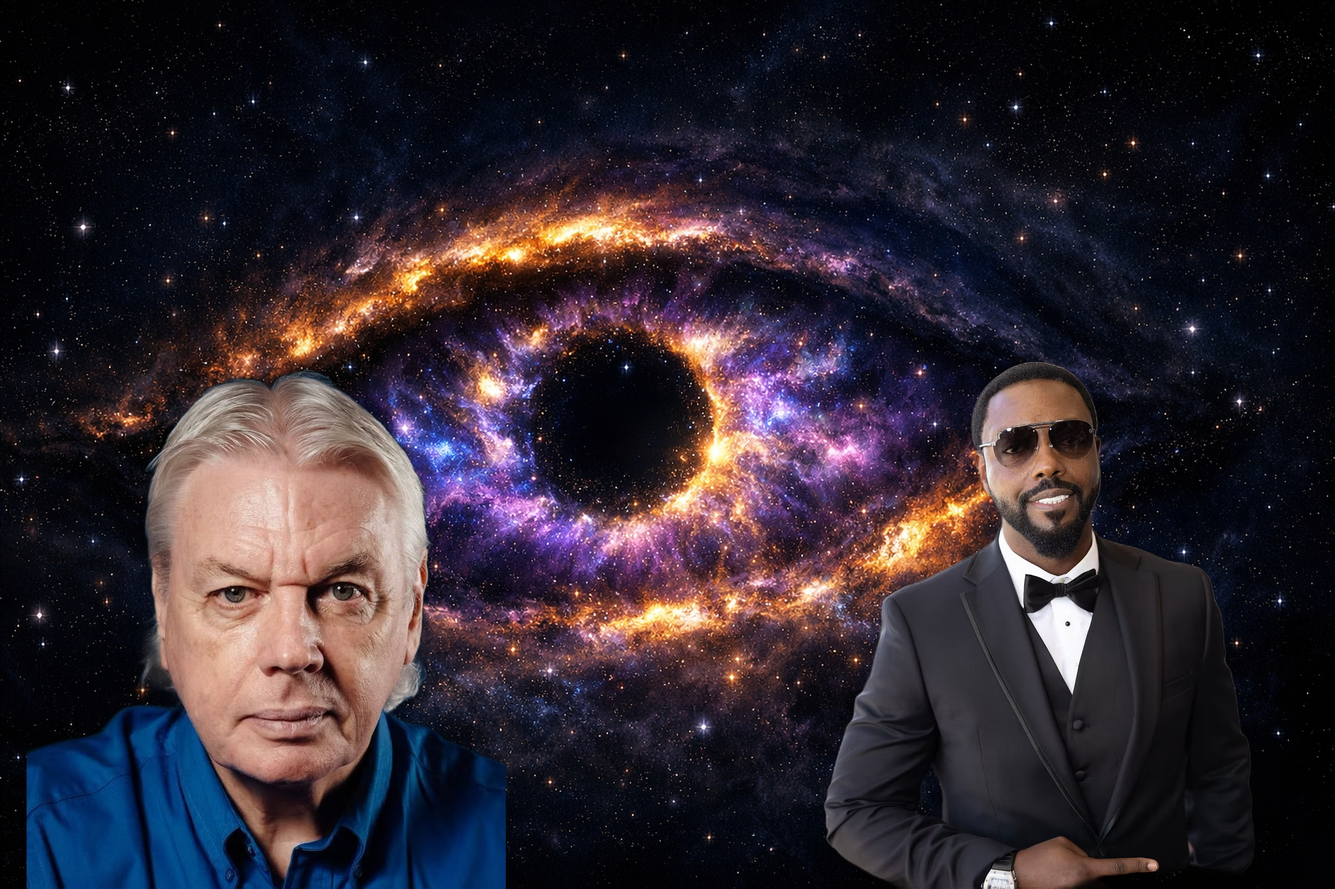
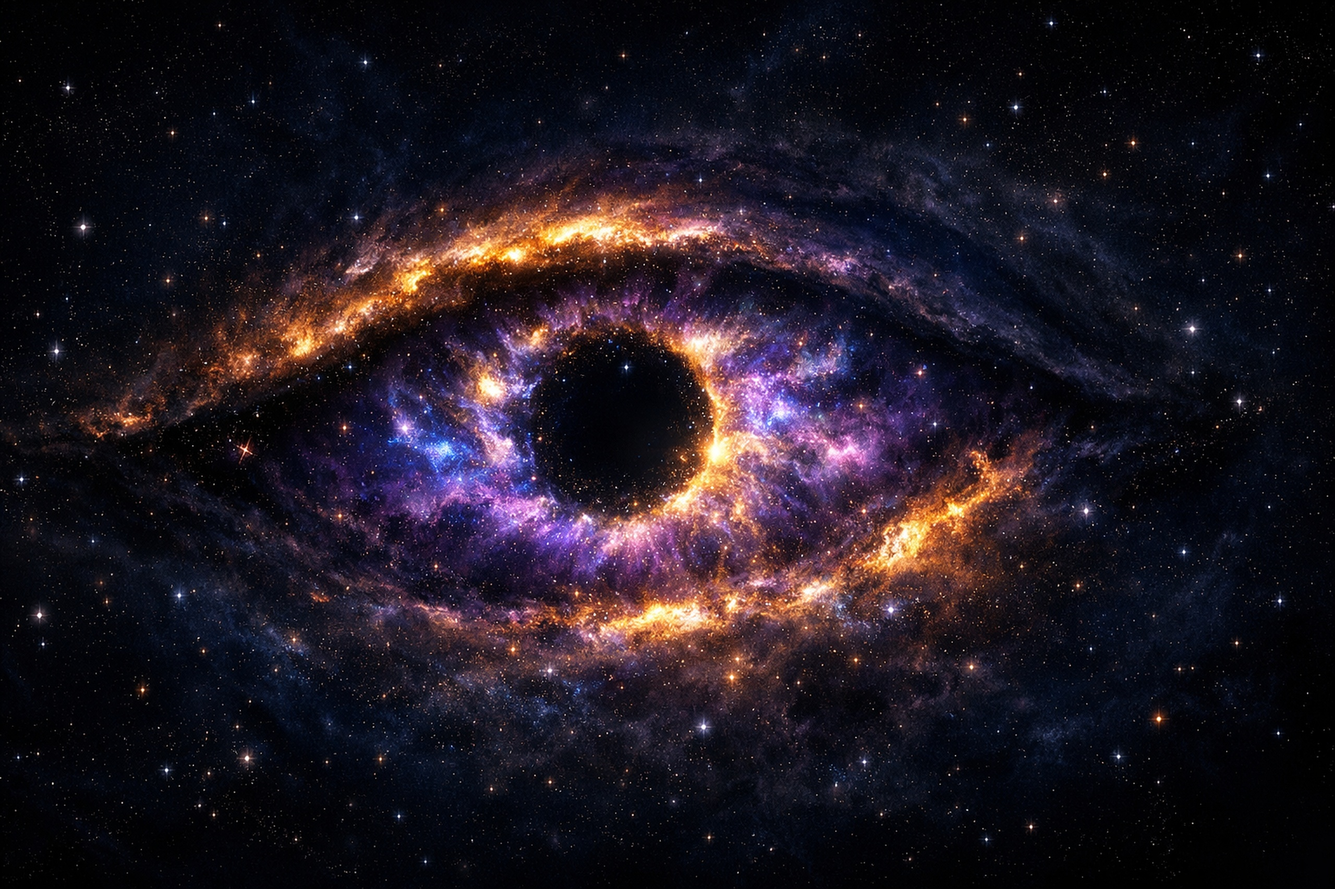
Hero speakers as positioned HTML elements, mobile topic layout fix
- David Icke + Billy Carson as separate transparent PNGs
- Positioned on sides of hero via CSS (not baked into bg image)
- Desktop: speakers flank the text, mobile: smaller + cropped edges
- Hero bg is now clean cosmic eye without speakers
- Mobile topic blocks: text at top, background image visible below
- SSP spaceship now visible on mobile

diff --git a/index.html b/index.html
@@ -180,6 +180,41 @@
     text-align: center;
     background: url('hero-bg.jpg') center center / cover no-repeat;
     background-color: var(--black);
+    overflow: hidden;
+  }
+
+  .hero-speaker-left, .hero-speaker-right {
+    position: absolute;
+    bottom: 0;
+    z-index: 1;
+    pointer-events: none;
+  }
+
+  .hero-speaker-left {
+    left: -2%;
+    height: 85%;
+    max-height: 750px;
+  }
+
+  .hero-speaker-right {
+    right: -2%;
+    height: 90%;
+    max-height: 800px;
+  }
+
+  .hero-speaker-left img, .hero-speaker-right img {
+    height: 100%;
+    width: auto;
+    object-fit: contain;
+    filter: drop-shadow(0 0 30px rgba(0,0,0,0.6));
+  }
+
+  /* Hero text sits above the speaker images */
+  .hero-eyebrow, .hero-headline, .hero-tagline, .hero-featuring,
+  .hero-speakers-names, .hero-sub, .hero-cta-group, .hero-date-bar,
+  .urgency-badge {
+    position: relative;
+    z-index: 2;
   }
 
   .hero-eyebrow {
@@ -1334,8 +1369,12 @@
     .hamburger { display: flex; }
     .hero { padding: 100px 20px 60px; }
     .hero-headline { font-size: clamp(40px, 8vw, 72px); }
-    .topic-content { padding: 40px 24px; }
-    .topic-block { min-height: 60vh; }
+    .topic-content { padding: 40px 24px; max-width: 100%; }
+    .topic-block { min-height: 80vh; align-items: flex-start; padding-top: 40px; }
+    .topic-block:nth-child(even) .topic-content { margin-left: 0; }
+    .topic-bg { background-position: center bottom; }
+    .hero-speaker-left { left: -10%; height: 60%; }
+    .hero-speaker-right { right: -10%; height: 65%; }
     .speakers-section, .why-now, .tickets, .social-proof, .final-cta { padding: 60px 24px; }
     .speakers-grid { grid-template-columns: 1fr 1fr; }
     .speaker-card.featured { grid-column: span 2; }
@@ -1394,6 +1433,8 @@
 
 <!-- HERO -->
 <section class="hero">
+  <div class="hero-speaker-left"><img src="david-icke-cutout.png" alt="David Icke"></div>
+  <div class="hero-speaker-right"><img src="billy-carson-cutout.png" alt="Billy Carson"></div>
   <p class="hero-eyebrow">GSIC 2026 — Eastbourne, England · September 10–12</p>
   <h1 class="hero-headline">The Truth They<br><span class="accent">Tried To Hide</span></h1>
   <p class="hero-tagline">The Future of Truth & Consciousness</p>
